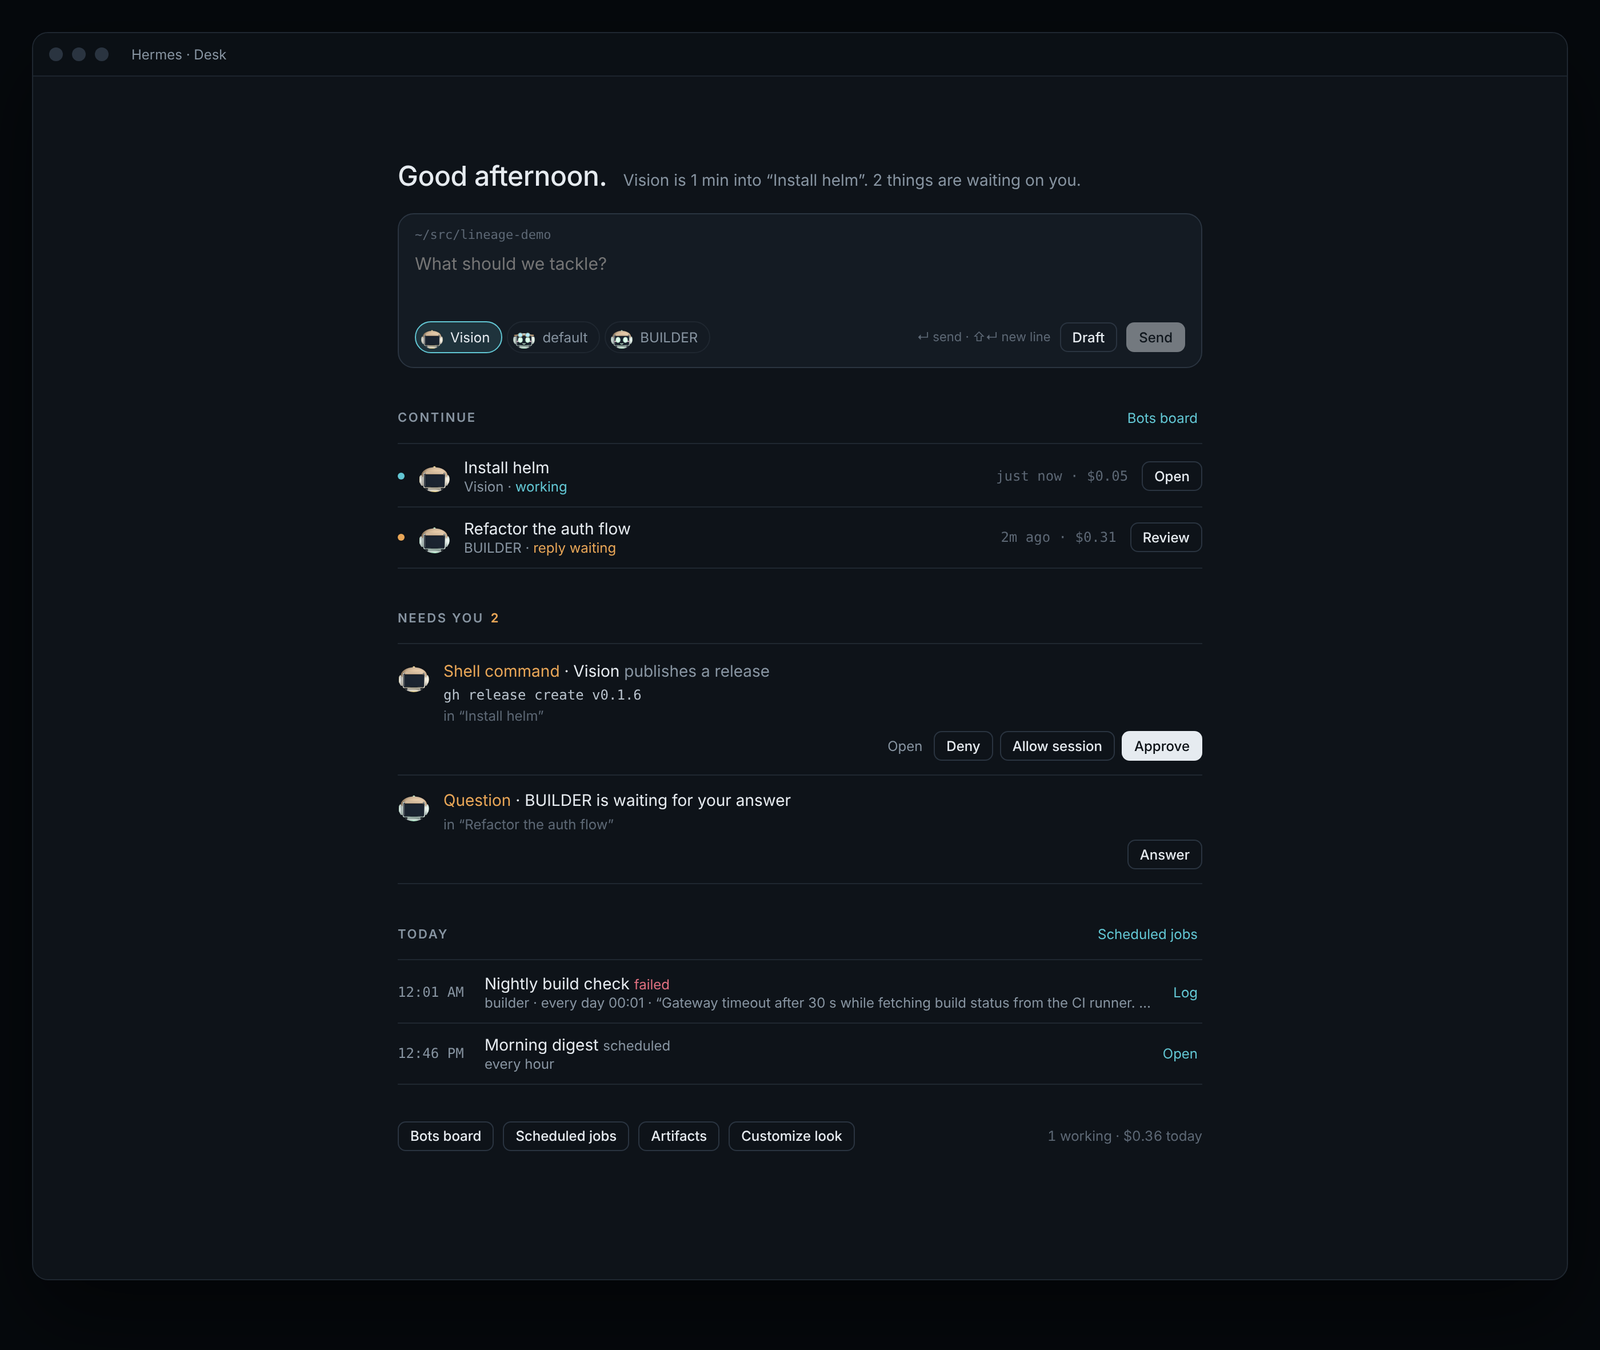
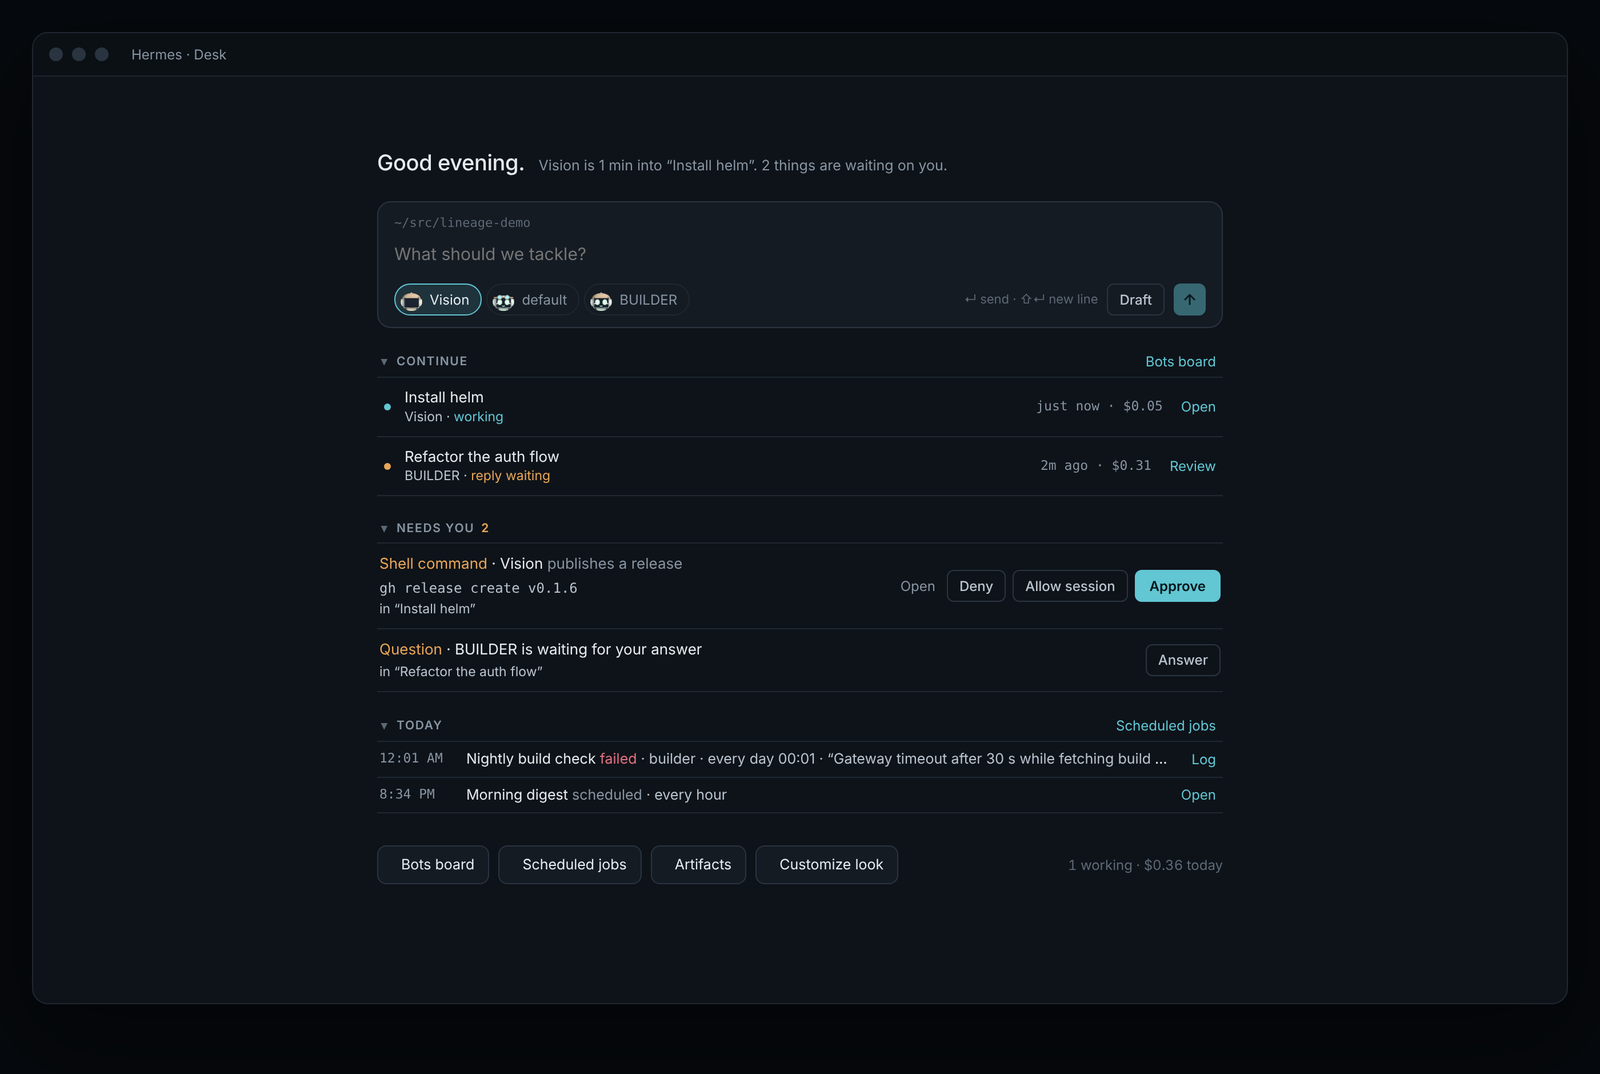
helm 1.0.3: Desk restyled to the approved Main board
Claude-Session: https://claude.ai/code/session_01F1DXuWjUkUGYSqHhtAutEe

diff --git a/desktop/plugin.js b/desktop/plugin.js
@@ -42,7 +42,7 @@ import { jsx, jsxs } from 'react/jsx-runtime'
 import { useEffect, useMemo, useState } from 'react'
 
 const ID = 'helm'
-const VERSION = '1.0.2'
+const VERSION = '1.0.3'
 const BOTS_ROUTE = '/helm/bots'
 const LOOK_ROUTE = '/helm/look'
 const DESK_ROUTE = '/helm/desk'
@@ -1805,7 +1805,8 @@ const V = {
   radius: n => `calc(var(--radius-scalar, 1) * ${n}px)`
 }
 const TONE_COLOR = { amber: V.amber, accent: V.accent, muted: V.t3 }
-const CAPS = { fontSize: 11, fontWeight: 600, letterSpacing: '0.12em', textTransform: 'uppercase', color: V.t3 }
+const CAPS = { fontSize: 10.5, fontWeight: 600, letterSpacing: '0.08em', textTransform: 'uppercase', color: V.t3, margin: 0 }
+const ON_ACCENT = '#06161A'
 
 // A Desk section. With `id` + `fold` it folds: the header toggles it, the
 // choice is remembered (prefs.deskFolded), and a folded section shows its count.
@@ -1826,20 +1827,20 @@ function DeskSection({ id, title, count, action, fold, children }) {
         title: folded ? 'Show' : 'Hide',
         style: { display: 'inline-flex', alignItems: 'center', gap: 6, background: 'none', border: 0, padding: 0, cursor: 'pointer', color: 'inherit' },
         children: [
-          jsx('span', { style: { ...CAPS, display: 'inline-block', width: 10, transition: 'transform 120ms', transform: folded ? 'rotate(-90deg)' : 'none' }, children: '▾' }),
+          jsx('span', { style: { ...CAPS, color: V.t4, display: 'inline-block', width: 9, transition: 'transform 120ms', transform: folded ? 'rotate(-90deg)' : 'none' }, children: '▾' }),
           jsx('h2', { style: CAPS, children: title }),
           folded && count ? jsx('span', { style: { fontSize: 11, color: V.t3, fontVariantNumeric: 'tabular-nums' }, children: count }) : null
         ]
       })
     : jsx('h2', { style: CAPS, children: title })
   return jsxs('section', {
-    style: { marginTop: folded ? 18 : 28 },
+    style: { marginTop: folded ? 14 : 22, display: 'flex', flexDirection: 'column' },
     children: [
       jsxs('div', {
-        style: { display: 'flex', alignItems: 'center', justifyContent: 'space-between', borderBottom: `1px solid ${V.hair}`, paddingBottom: 6, marginBottom: 2 },
+        style: { display: 'flex', alignItems: 'center', justifyContent: 'space-between', padding: '0 2px 6px' },
         children: [head, action || null]
       }),
-      folded ? null : children
+      folded ? null : jsx('div', { style: { borderTop: `1px solid ${V.hair}` }, children })
     ]
   })
 }
@@ -1866,14 +1867,14 @@ function SmallButton({ onClick, children, primary, disabled, title }) {
     disabled,
     title,
     style: {
-      height: 26,
-      padding: '0 10px',
+      height: 28,
+      padding: primary ? '0 12px' : '0 10px',
       fontSize: 12,
-      fontWeight: 500,
-      borderRadius: V.radius(7),
+      fontWeight: primary ? 600 : 500,
+      borderRadius: V.radius(6),
       border: primary ? '1px solid transparent' : `1px solid ${V.hair2}`,
-      background: primary ? V.t1 : 'transparent',
-      color: primary ? 'var(--ui-bg-chrome, #0b0f14)' : V.t1,
+      background: primary ? V.accent : 'transparent',
+      color: primary ? ON_ACCENT : V.t2,
       opacity: disabled ? 0.45 : 1,
       cursor: disabled ? 'default' : 'pointer',
       whiteSpace: 'nowrap'
@@ -1882,20 +1883,20 @@ function SmallButton({ onClick, children, primary, disabled, title }) {
   })
 }
 
-function DeskRow({ lead, title, sub, meta, actions, dot }) {
+function DeskRow({ lead, title, sub, meta, actions, dot, dense }) {
   return jsxs('div', {
-    style: { display: 'flex', alignItems: 'center', gap: 12, padding: '10px 0', borderBottom: `1px solid ${V.hair}` },
+    style: { display: 'flex', alignItems: 'center', gap: 12, padding: dense ? '7px 2px' : '9px 2px', borderBottom: `1px solid ${V.hair}`, lineHeight: 1.3 },
     children: [
-      dot !== undefined ? jsx('span', { style: { width: 6, height: 6, borderRadius: 3, flexShrink: 0, background: dot || 'transparent' } }) : null,
+      dot !== undefined ? jsx('span', { style: { width: 6, height: 6, borderRadius: 3, flexShrink: 0, marginLeft: 4, background: dot || 'transparent' } }) : null,
       lead,
       jsxs('div', {
         style: { minWidth: 0, flex: 1 },
         children: [
-          jsx('div', { className: 'truncate', style: { fontSize: 14, color: V.t1 }, children: title }),
-          sub ? jsx('div', { className: 'truncate', style: { fontSize: 12, color: V.t3, marginTop: 1 }, children: sub }) : null
+          jsx('div', { className: 'truncate', style: { fontSize: dense ? 12.5 : 13, color: V.t1 }, children: title }),
+          sub ? jsx('div', { className: 'truncate', style: { fontSize: 11.5, color: V.t2, marginTop: 1 }, children: sub }) : null
         ]
       }),
-      meta ? jsx('div', { style: { flexShrink: 0, fontSize: 12, color: V.t4, fontFamily: V.mono, fontVariantNumeric: 'tabular-nums' }, children: meta }) : null,
+      meta ? jsx('div', { style: { flexShrink: 0, fontSize: 11.5, color: V.t3, fontFamily: V.mono, fontVariantNumeric: 'tabular-nums' }, children: meta }) : null,
       actions ? jsx('div', { style: { display: 'flex', alignItems: 'center', gap: 6, flexShrink: 0 }, children: actions }) : null
     ]
   })
@@ -1954,10 +1955,10 @@ function DeskPrompt({ crew, looks }) {
   }
   return jsxs('div', {
     style: {
-      borderRadius: V.radius(14),
+      borderRadius: V.radius(12),
       border: `1px solid ${focus ? V.accent : V.hair2}`,
       background: V.raised,
-      padding: '12px 14px',
+      padding: '12px 14px 10px',
       transition: 'border-color 120ms'
     },
     children: [
@@ -1967,7 +1968,7 @@ function DeskPrompt({ crew, looks }) {
       }),
       jsx('textarea', {
         value: text,
-        rows: 2,
+        rows: 1,
         placeholder: 'What should we tackle?',
         'aria-label': 'What should we tackle?',
         onFocus: () => setFocus(true),
@@ -1979,7 +1980,7 @@ function DeskPrompt({ crew, looks }) {
             go('send')
           }
         },
-        style: { width: '100%', resize: 'none', background: 'transparent', border: 0, outline: 'none', padding: '4px 0', fontSize: 15, lineHeight: 1.5, color: V.t1 }
+        style: { width: '100%', resize: 'none', background: 'transparent', border: 0, outline: 'none', padding: '6px 0 2px', fontSize: 15, lineHeight: 1.5, color: V.t1 }
       }),
       jsxs('div', {
         style: { display: 'flex', alignItems: 'center', gap: 8, marginTop: 8 },
@@ -1987,7 +1988,15 @@ function DeskPrompt({ crew, looks }) {
           jsx(BotPicker, { profiles, value: chosen, onPick: setBot, looks }),
           jsx('span', { style: { marginLeft: 'auto', fontSize: 11, color: V.t4, whiteSpace: 'nowrap' }, children: '↵ send · ⇧↵ new line' }),
           jsx(SmallButton, { title: 'Open a new chat with this text in the composer, unsent', onClick: () => go('draft'), children: 'Draft' }),
-          jsx(SmallButton, { primary: true, disabled: !text.trim(), onClick: () => go('send'), children: 'Send' })
+          jsx('button', {
+            type: 'button',
+            'aria-label': 'Send',
+            title: 'Send (↵)',
+            disabled: !text.trim(),
+            onClick: () => go('send'),
+            style: { width: 28, height: 28, flexShrink: 0, borderRadius: V.radius(6), border: 0, background: V.accent, color: ON_ACCENT, display: 'flex', alignItems: 'center', justifyContent: 'center', cursor: text.trim() ? 'pointer' : 'default', opacity: text.trim() ? 1 : 0.45 },
+            children: jsx('svg', { width: 14, height: 14, viewBox: '0 0 24 24', fill: 'none', stroke: 'currentColor', strokeWidth: 2.5, strokeLinecap: 'round', strokeLinejoin: 'round', 'aria-hidden': true, children: jsx('path', { d: 'M12 19V5M5 12l7-7 7 7' }) })
+          })
         ]
       })
     ]
@@ -2000,7 +2009,6 @@ function NeedsYouRow({ entry, look }) {
   const send = () => (reply.trim() ? replyDraft(entry, reply.trim()) : openSession(r, entry.profile.name))
   return jsx(DeskRow, {
     dot: V.amber,
-    lead: jsx(RobotHead, { look, expr: 'question', size: 28, title: entry.profile.name }),
     title: sessionTitle(r),
     sub: jsxs('span', { children: [jsx('span', { style: { color: V.amber }, children: `${botLabel(entry.profile)} replied` }), ` · ${ago(r.last_active)}${r.preview && r.title ? ` · ${r.preview}` : ''}`] }),
     actions: [
@@ -2017,11 +2025,11 @@ function NeedsYouRow({ entry, look }) {
               setReply('')
             }
           },
-          style: { height: 26, width: 180, borderRadius: V.radius(7), border: `1px solid ${V.hair2}`, background: 'transparent', padding: '0 8px', fontSize: 12, color: V.t1, outline: 'none' }
+          style: { height: 28, width: 160, borderRadius: V.radius(6), border: `1px solid ${V.hair2}`, background: 'transparent', padding: '0 9px', fontSize: 12, color: V.t1, outline: 'none' }
         },
         'reply'
       ),
-      jsx(SmallButton, { onClick: send, children: reply.trim() ? 'Reply' : 'Open' }, 'open')
+      jsx(LinkButton, { onClick: send, children: reply.trim() ? 'Reply' : 'Open' }, 'open')
     ]
   })
 }
@@ -2072,9 +2080,16 @@ function TodayList() {
       jsx(
         DeskRow,
         {
-          lead: jsx('span', { style: { width: 64, flexShrink: 0, fontFamily: V.mono, fontSize: 12, color: V.t3 }, children: clock(at) }),
-          title: jsxs('span', { children: [job.name || 'Scheduled job', ' ', jsx('span', { style: { fontSize: 12, color: JOB_COLOR[word] }, children: word })] }),
-          sub: [job.profile, job.schedule_display, word === 'failed' && job.last_error ? `“${String(job.last_error).slice(0, 120)}”` : null].filter(Boolean).join(' · '),
+          dense: true,
+          lead: jsx('span', { style: { width: 64, flexShrink: 0, fontFamily: V.mono, fontSize: 11.5, color: V.t3 }, children: clock(at) }),
+          title: jsxs('span', {
+            children: [
+              job.name || 'Scheduled job',
+              ' ',
+              jsx('span', { style: { color: JOB_COLOR[word] }, children: word }),
+              jsx('span', { style: { color: V.t2 }, children: [' ', ...[job.profile, job.schedule_display, word === 'failed' && job.last_error ? `“${String(job.last_error).slice(0, 120)}”` : null].filter(Boolean).map(x => ` · ${x}`)] })
+            ]
+          }),
           actions: jsx(LinkButton, { onClick: () => host.navigate('/cron'), children: word === 'failed' ? 'Log' : 'Open' })
         },
         job.id
@@ -2141,10 +2156,10 @@ function DeskPage({ looks, prefs, setPrefs }) {
   return jsx('div', {
     style: { height: '100%', overflowY: 'auto' },
     children: jsxs('div', {
-      style: { margin: '0 auto', width: '100%', maxWidth: 760, padding: compact ? '20px 16px 40px' : '64px 28px 72px' },
+      style: { margin: '0 auto', width: '100%', maxWidth: 796, padding: compact ? '20px 16px 40px' : '56px 28px 64px' },
       children: [
         jsxs('div', {
-          style: { display: 'flex', flexWrap: 'wrap', alignItems: 'baseline', columnGap: 14, rowGap: 4, marginBottom: 18 },
+          style: { display: 'flex', flexWrap: 'wrap', alignItems: 'baseline', columnGap: 12, rowGap: 4, marginBottom: 22 },
           children: [
             naming
               ? jsx('input', {
@@ -2164,10 +2179,10 @@ function DeskPage({ looks, prefs, setPrefs }) {
               : jsx('h1', {
                   title: 'Click to set the name the Desk greets',
                   onClick: () => setNaming(true),
-                  style: { fontSize: 24, fontWeight: 500, letterSpacing: '-0.01em', color: V.t1, cursor: 'text', margin: 0 },
+                  style: { fontSize: 19, fontWeight: 500, letterSpacing: '-0.01em', color: V.t1, cursor: 'text', margin: 0 },
                   children: `${greeting()}${name ? `, ${name}` : ''}.`
                 }),
-            jsx('p', { style: { fontSize: 14, color: V.t3, margin: 0 }, children: statusSentence(crew) })
+            jsx('p', { style: { fontSize: 12.5, color: V.t3, margin: 0 }, children: statusSentence(crew) })
           ]
         }),
         jsx(DeskPrompt, { crew, looks: looksValue }),
@@ -2187,8 +2202,7 @@ function DeskPage({ looks, prefs, setPrefs }) {
                 return jsx(
                   DeskRow,
                   {
-                    dot: st.word === 'done' ? '' : st.dot,
-                    lead: jsx(RobotHead, { look, expr: r.unread ? 'question' : r.is_active && !r.ended_at ? 'focused' : look.face, size: 28, title: entry.profile.name }),
+                    dot: st.word === 'done' ? V.green : st.dot || V.t4,
                     title: sessionTitle(r),
                     sub: jsxs('span', {
                       children: [
@@ -2200,7 +2214,7 @@ function DeskPage({ looks, prefs, setPrefs }) {
                       ]
                     }),
                     meta: [ago(r.last_active), rowCost(r) >= 0.01 ? fmtCost(rowCost(r)) : null].filter(Boolean).join(' · '),
-                    actions: jsx(SmallButton, { onClick: () => openSession(r, entry.profile.name), children: r.unread ? 'Review' : 'Open' })
+                    actions: jsx(LinkButton, { onClick: () => openSession(r, entry.profile.name), children: r.unread ? 'Review' : 'Open' })
                   },
                   `${entry.profile.name}:${r.id}`
                 )
@@ -2217,7 +2231,7 @@ function DeskPage({ looks, prefs, setPrefs }) {
           children: jsx(TodayList, {})
         }),
         jsxs('div', {
-          style: { marginTop: 32, display: 'flex', flexWrap: 'wrap', alignItems: 'center', gap: 8 },
+          style: { marginTop: 28, display: 'flex', flexWrap: 'wrap', alignItems: 'center', gap: 8 },
           children: [
             ...[
               ['hubot', 'Bots board', BOTS_ROUTE],
@@ -2225,9 +2239,14 @@ function DeskPage({ looks, prefs, setPrefs }) {
               ['files', 'Artifacts', '/artifacts'],
               ['symbol-color', 'Customize look', LOOK_ROUTE]
             ].map(([icon, label, path]) =>
-              jsx(
-                SmallButton,
-                { onClick: () => host.navigate(path), children: jsxs('span', { style: { display: 'inline-flex', alignItems: 'center', gap: 6 }, children: [jsx(Codicon, { name: icon, size: 13 }), label] }) },
+              jsxs(
+                'button',
+                {
+                  type: 'button',
+                  onClick: () => host.navigate(path),
+                  style: { height: 34, padding: '0 12px', borderRadius: V.radius(8), border: `1px solid ${V.hair2}`, background: V.raised, color: V.t1, fontSize: 12.5, display: 'inline-flex', alignItems: 'center', gap: 8, cursor: 'pointer' },
+                  children: [jsx('span', { style: { color: V.t2, display: 'inline-flex' }, children: jsx(Codicon, { name: icon, size: 14 }) }), label]
+                },
                 path
               )
             ),
@@ -2543,27 +2562,26 @@ function ApprovalRow({ item, looks, compact }) {
   }
   const cmd = item.command ? (item.command.length > 160 ? `${item.command.slice(0, 157)}…` : item.command) : ''
   return jsxs('div', {
-    style: { display: 'flex', flexDirection: 'column', gap: compact ? 4 : 6, padding: compact ? '8px 0' : '12px 0', borderBottom: `1px solid ${V.hair}` },
+    style: { display: 'flex', flexDirection: compact ? 'column' : 'row', alignItems: compact ? 'stretch' : 'center', gap: compact ? 4 : 12, padding: compact ? '8px 0' : '9px 2px', borderBottom: `1px solid ${V.hair}`, lineHeight: 1.3 },
     children: [
       jsxs('div', {
-        style: { display: 'flex', alignItems: 'flex-start', gap: compact ? 8 : 12 },
+        style: { display: 'flex', alignItems: 'flex-start', gap: compact ? 8 : 12, flex: 1, minWidth: 0 },
         children: [
-          compact ? null : jsx(RobotHead, { look, expr: 'question', size: 28, title: item.profile || 'bot' }),
           jsxs('div', {
             style: { minWidth: 0, flex: 1 },
             children: [
               jsxs('div', {
-                style: { fontSize: compact ? 12 : 14, color: V.t1, lineHeight: 1.4 },
+                style: { fontSize: compact ? 12 : 13, color: V.t1, lineHeight: 1.4 },
                 children: [jsx('span', { style: { color: V.amber }, children: item.toolName === 'terminal' || !item.toolName ? 'Shell command' : item.toolName }), ` · ${who} `, jsx('span', { style: { color: V.t3 }, children: item.description })]
               }),
               cmd ? jsx('code', { style: { display: 'block', marginTop: 4, fontFamily: V.mono, fontSize: compact ? 11 : 12, color: V.t2, wordBreak: 'break-all', whiteSpace: 'pre-wrap' }, children: cmd }) : null,
-              compact ? null : jsx('div', { className: 'truncate', style: { fontSize: 12, color: V.t4, marginTop: 4 }, children: `in “${item.title}”` })
+              compact ? null : jsx('div', { className: 'truncate', style: { fontSize: 11.5, color: V.t2, marginTop: 3 }, children: `in “${item.title}”` })
             ]
           })
         ]
       }),
       jsxs('div', {
-        style: { display: 'flex', alignItems: 'center', gap: 6, justifyContent: compact ? 'flex-start' : 'flex-end' },
+        style: { display: 'flex', alignItems: 'center', gap: 6, flexShrink: 0, justifyContent: compact ? 'flex-start' : 'flex-end' },
         children: [
           jsx(LinkButton, { tone: 'muted', onClick: () => openInboxItem(item), children: 'Open' }),
           jsx(SmallButton, { disabled: !!busy, onClick: () => act('deny'), children: busy === 'deny' ? 'Denying…' : 'Deny' }),
@@ -2585,26 +2603,25 @@ function QuestionRow({ item, looks, compact }) {
     if (text.trim()) answerQuestion(item, text.trim())
   }
   return jsxs('div', {
-    style: { display: 'flex', flexDirection: 'column', gap: 6, padding: compact ? '8px 0' : '12px 0', borderBottom: `1px solid ${V.hair}` },
+    style: { display: 'flex', flexDirection: compact ? 'column' : 'row', alignItems: compact ? 'stretch' : 'center', gap: compact ? 6 : 12, padding: compact ? '8px 0' : '9px 2px', borderBottom: `1px solid ${V.hair}`, lineHeight: 1.3 },
     children: [
       jsxs('div', {
-        style: { display: 'flex', alignItems: 'flex-start', gap: compact ? 8 : 12 },
+        style: { display: 'flex', alignItems: 'flex-start', gap: compact ? 8 : 12, flex: 1, minWidth: 0 },
         children: [
-          compact ? null : jsx(RobotHead, { look, expr: 'question', size: 28, title: item.profile || 'bot' }),
           jsxs('div', {
             style: { minWidth: 0, flex: 1 },
             children: [
-              jsxs('div', { style: { fontSize: compact ? 12 : 14, color: V.t1, lineHeight: 1.4 }, children: [jsx('span', { style: { color: V.amber }, children: 'Question' }), ` · ${who}${item.question ? ': ' : ' is waiting for your answer'}`, item.question || ''] }),
-              compact ? null : jsx('div', { className: 'truncate', style: { fontSize: 12, color: V.t4, marginTop: 4 }, children: `in “${item.title}”` })
+              jsxs('div', { style: { fontSize: compact ? 12 : 13, color: V.t1, lineHeight: 1.4 }, children: [jsx('span', { style: { color: V.amber }, children: 'Question' }), ` · ${who}${item.question ? ': ' : ' is waiting for your answer'}`, item.question || ''] }),
+              compact ? null : jsx('div', { className: 'truncate', style: { fontSize: 11.5, color: V.t2, marginTop: 3 }, children: `in “${item.title}”` }),
+              canAnswer && item.choices && item.choices.length
+                ? jsx('div', { style: { display: 'flex', flexWrap: 'wrap', gap: 6, marginTop: 6 }, children: item.choices.slice(0, 6).map(c => jsx(SmallButton, { onClick: () => send(c), children: c }, c)) })
+                : null
             ]
           })
         ]
       }),
-      canAnswer && item.choices && item.choices.length
-        ? jsx('div', { style: { display: 'flex', flexWrap: 'wrap', gap: 6 }, children: item.choices.slice(0, 6).map(c => jsx(SmallButton, { onClick: () => send(c), children: c }, c)) })
-        : null,
       jsxs('div', {
-        style: { display: 'flex', alignItems: 'center', gap: 6, justifyContent: compact ? 'flex-start' : 'flex-end' },
+        style: { display: 'flex', alignItems: 'center', gap: 6, flexShrink: 0, justifyContent: compact ? 'flex-start' : 'flex-end' },
         children: [
           canAnswer
             ? jsx('input', {
@@ -2618,7 +2635,7 @@ function QuestionRow({ item, looks, compact }) {
                     setAnswer('')
                   }
                 },
-                style: { height: 26, flex: compact ? 1 : undefined, width: compact ? undefined : 220, minWidth: 0, borderRadius: V.radius(7), border: `1px solid ${V.hair2}`, background: 'transparent', padding: '0 8px', fontSize: 12, color: V.t1, outline: 'none' }
+                style: { height: 28, flex: compact ? 1 : undefined, width: compact ? undefined : 180, minWidth: 0, borderRadius: V.radius(6), border: `1px solid ${V.hair2}`, background: 'transparent', padding: '0 9px', fontSize: 12, color: V.t1, outline: 'none' }
               })
             : null,
           canAnswer ? jsx(SmallButton, { primary: true, disabled: !answer.trim(), onClick: () => (send(answer), setAnswer('')), children: 'Send' }) : null,

diff --git a/CHANGELOG.md b/CHANGELOG.md
@@ -1,5 +1,16 @@
 # Changelog
 
+## 1.0.3 — 2026-11-06
+
+- **The Desk now matches the approved design (the Main board):**
+  - compact two-line rows: a status dot, title, detail line, a mono time-and-cost column, and a cyan *Open* / *Review* link
+  - tracked-caps section headers
+  - a lower, tighter composer with a cyan send button
+  - approvals and questions with their buttons on the right of the row (*Approve* in the accent)
+  - Today as one line per job
+  - quick-action chips along the bottom
+- The robot heads that used to sit in the Desk rows are gone. Robots stay in the bot picker, the Bots board, the session list and the composer.
+
 ## 1.0.2 — 2026-11-06
 
 - **Desk sections fold.** Click the *Continue*, *Needs you* or *Today* header to fold or unfold that section, and the Desk remembers your choice. A folded section shows its count, for example *Today 12 · 1 failed*.
